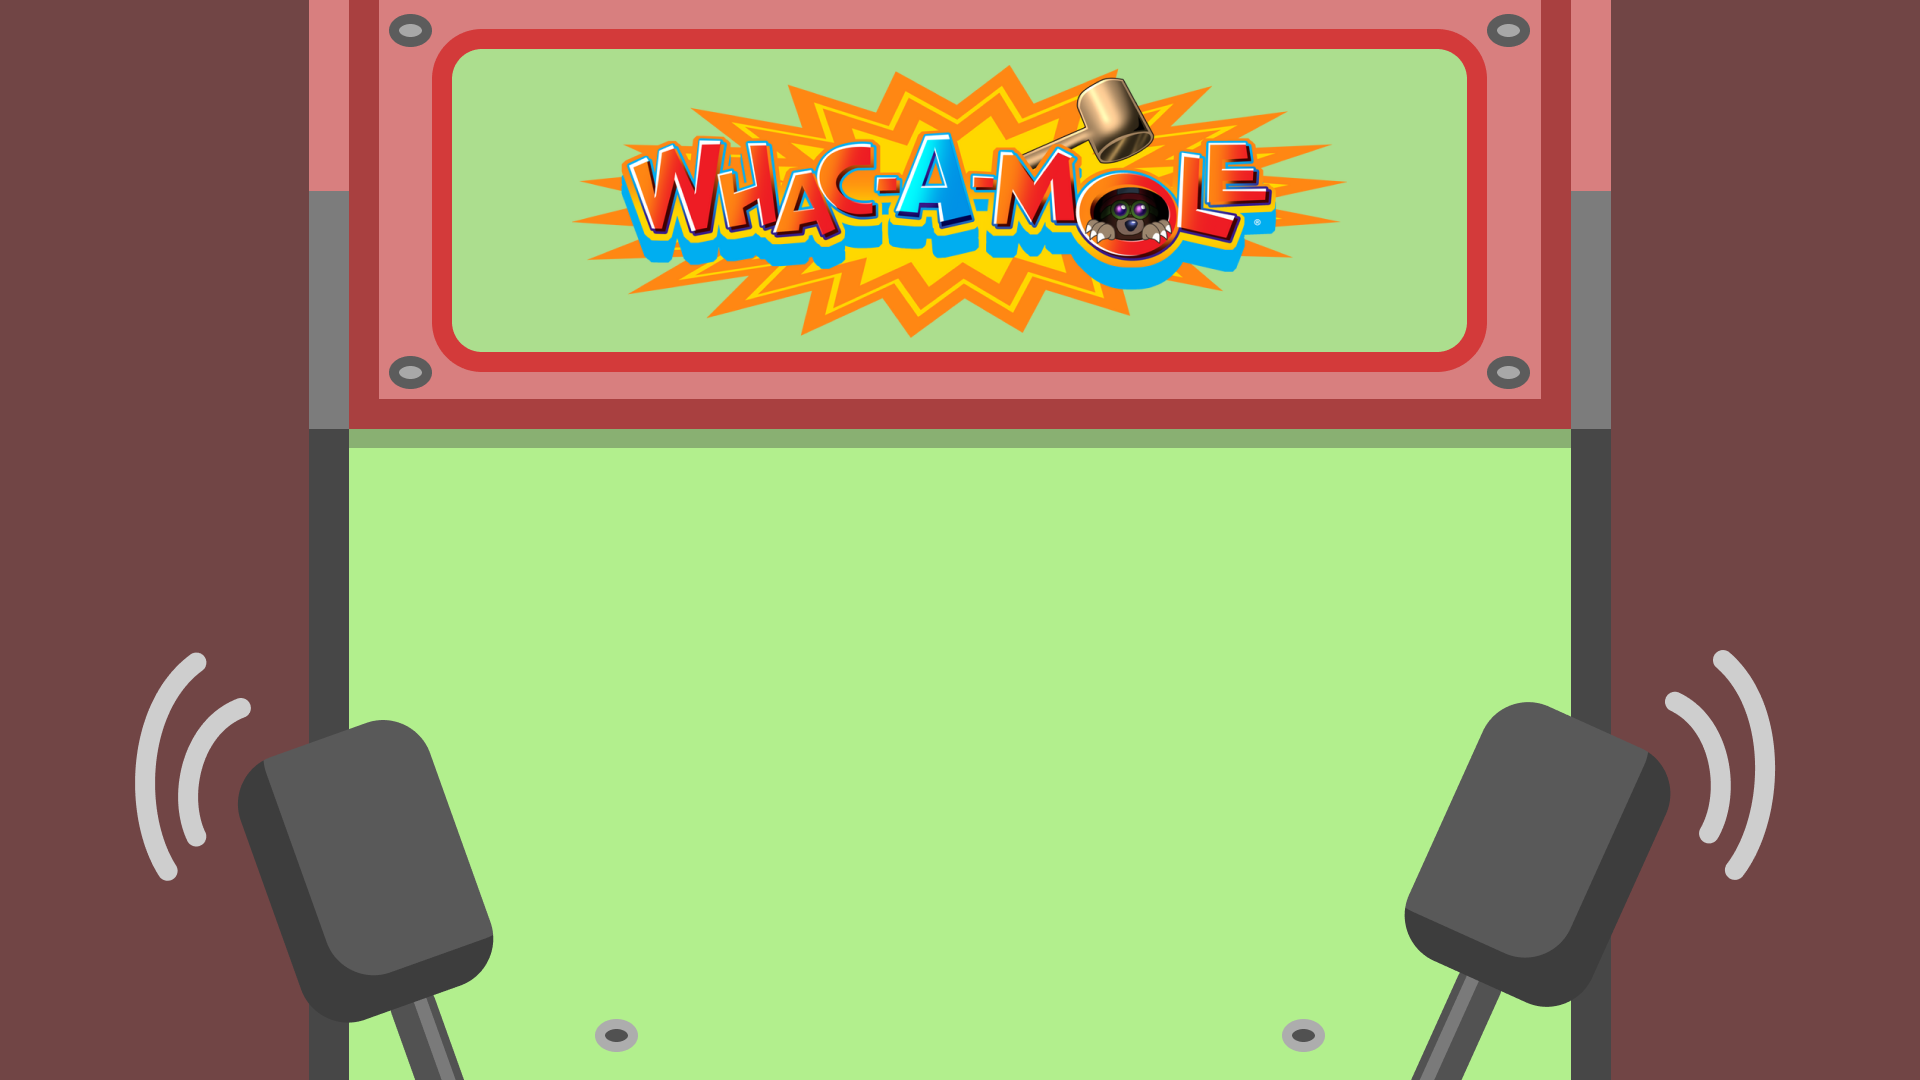
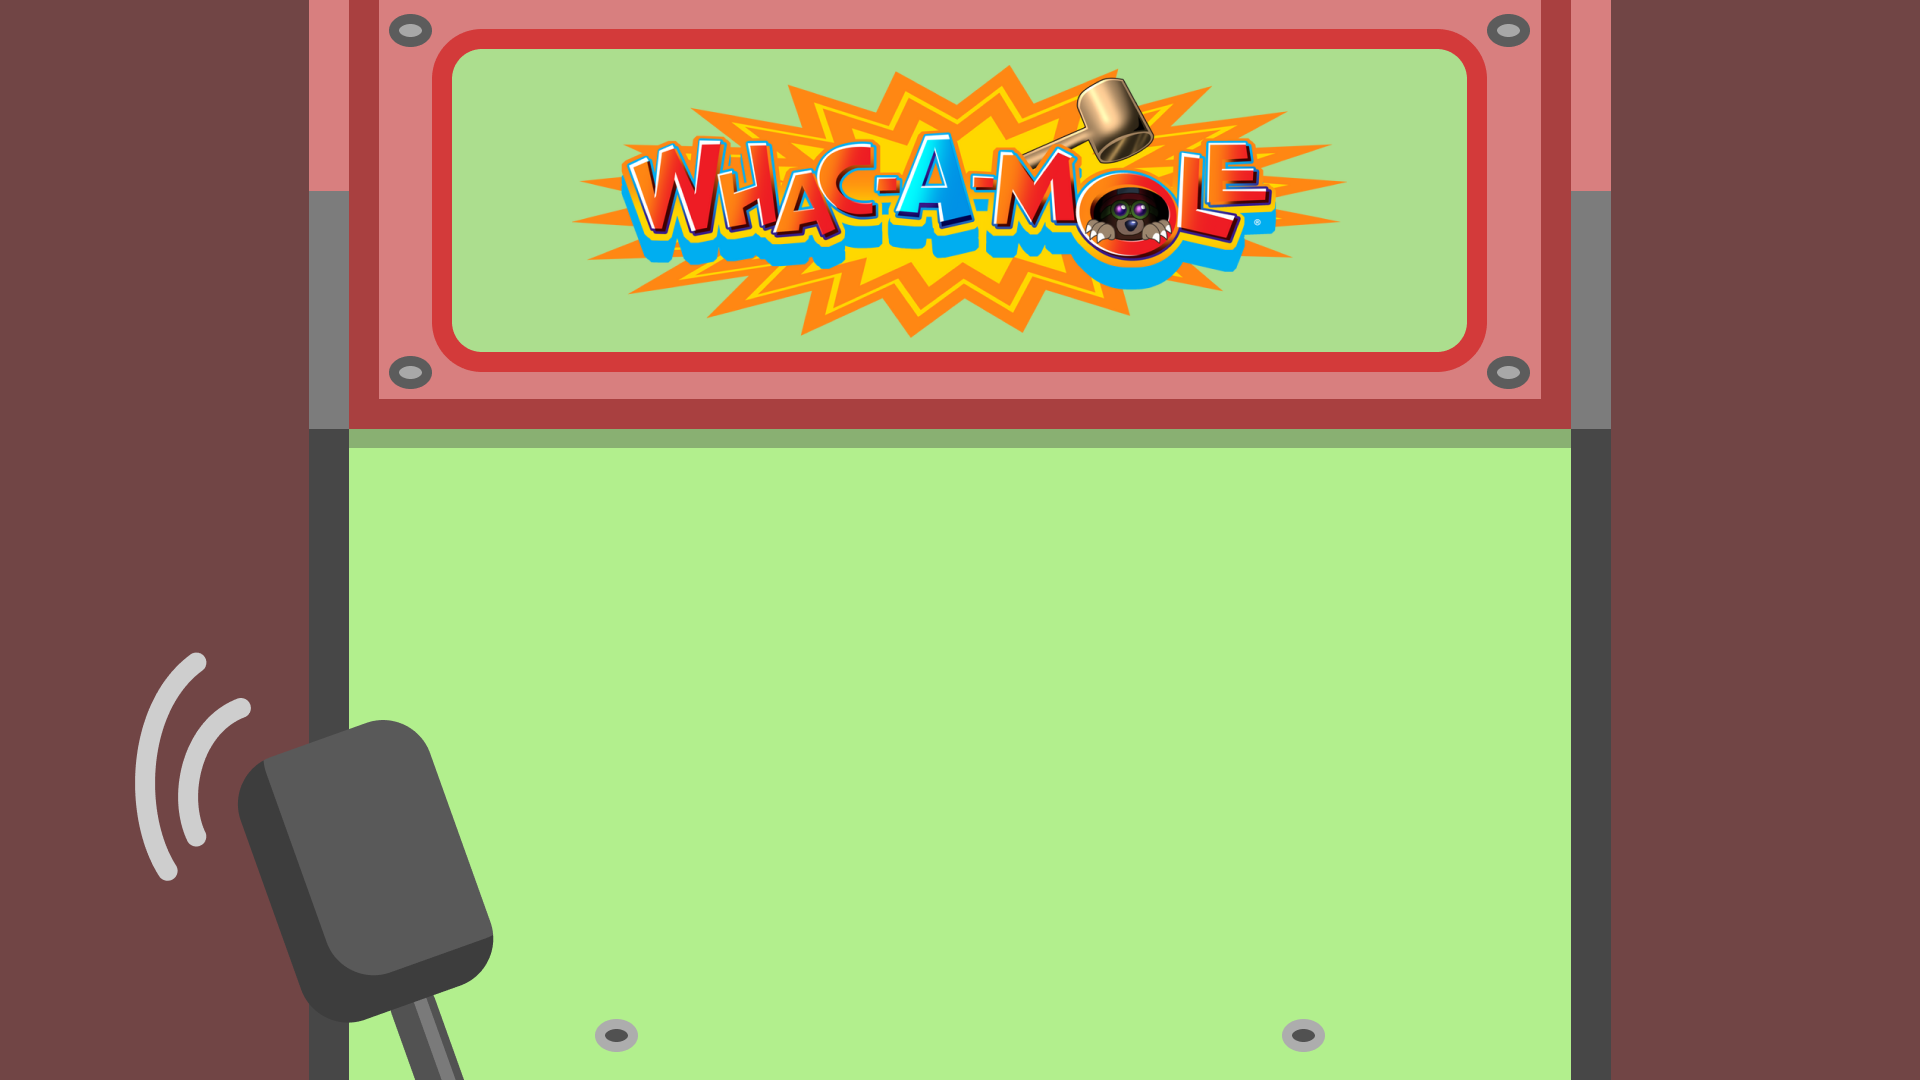
Added special effects

Changed region(s): [[0.7188, 0.6111, 0.9375, 1.0]]

diff --git a/Lab 6/whac_a_mole.py b/Lab 6/whac_a_mole.py
@@ -2,28 +2,50 @@
 import pygame
 
 class whac_a_mole:
-    def __init__(self, screen, background, mole, hole, x, y, imgX, imgY):
+    def __init__(self, screen, background, hammer, mole, hole, hitmole, hithole, x, y, imgX, imgY):
+        # 0 hole, 1 mole, 2 hit hole, 3 hit mole
         self.board = [0,0,0,0,0]
         self.screen = screen
         self.background = background
+        self.hammer = hammer
         self.mole = mole
         self.hole = hole
+        self.hitmole = hitmole
+        self.hithole = hithole
         self.x = x
         self.y = y
         self.imgX = imgX
         self.imgY = imgY
 
-    def set_mole(self, i):
-        self.board[i] = 1
-
     def set_hole(self, i):
         self.board[i] = 0
+
+    def set_mole(self, i):
+        if self.board[i] == 0:
+            self.board[i] = 1
+
+    def hit_hole(self, i):
+            self.board[i] = 2
+
+    def hit_mole(self, i):
+            self.board[i] = 3
+
+    def hit(self, i):
+        if 2 not in self.board and 3 not in self.board:
+            if self.board[i] = 0:
+                self.hit_hole(i)
+            if self.board[i] = 1:
+                self.hit_mole(i)
 
     def draw_mole(self, i, b):
         if b == 0:
             img = self.hole
-        else:
+        elif b == 1:
             img = self.mole
+        elif b == 2:
+            img = self.hithole
+        elif b == 3:
+            img = self.hitmole
 
         if i == 0:
             self.screen.blit(img, (self.x / 2 - self.imgX * 3 / 2, self.y / 2 - self.imgY / 2))
@@ -39,9 +61,14 @@ class whac_a_mole:
     def draw_game(self):
         self.screen.blit(self.background, (0, 0))
         i = 0
+        hit = False
         for b in self.board:
             self.draw_mole(i, b)
+            if b == 2 or b == 3:
+                hit = True
             i += 1
+        if hit = False:
+            self.screen.blit(self.hammer, (self.x / 2, self.y / 2))
 
     def game_to_str(self):
         return " ".join(str(b) for b in self.board)

diff --git a/Lab 6/whac_a_mole_host.py b/Lab 6/whac_a_mole_host.py
@@ -66,6 +66,12 @@ img_Mole = pygame.image.load(cwd + "/imgs/Mole.png")
 img_Mole = pygame.transform.scale(img_Mole, (holeX, holeY))
 img_Hole = pygame.image.load(cwd + "/imgs/Hole.png")
 img_Hole = pygame.transform.scale(img_Hole, (holeX, holeY))
+img_hammer = pygame.image.load(cwd + "/imgs/Hammer.png")
+img_hammer = pygame.transform.scale(img_hammer, (screenX/2, screenY/2))
+img_hitHole = pygame.image.load(cwd + "/imgs/HitHole.png")
+img_hitHole = pygame.transform.scale(img_hitHole, (holeX, screenY/1.5))
+img_hitMole = pygame.image.load(cwd + "/imgs/HitMole.png")
+img_hitMole = pygame.transform.scale(img_hitMole, (holeX, screenY/1.5))
 
 # init game
 the_game = whac_a_mole.whac_a_mole(screen, img_background, img_Mole, img_Hole, screenX, screenY, holeX, holeY)
